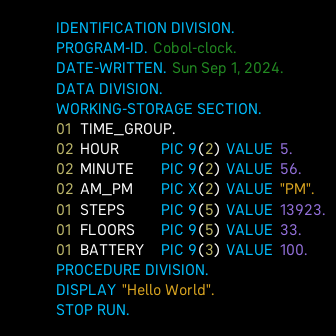
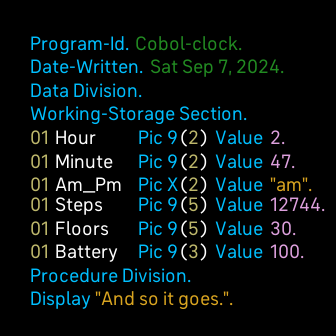
Refactoring to improve readability on physical device
Three lines of cobol code removed to increase font size. Cobol code will still compile according to GnuCobol.

Changed region(s): [[0.0893, 0.0595, 0.9524, 0.9524]]

diff --git a/cobol-clock/app/index.js b/cobol-clock/app/index.js
@@ -115,7 +115,7 @@ function updateTimeGroup(evt) {
   minuteLabel.text = `${displayMins}` + ".";
 
   // AM / PM indicator
-  amPmLabel.text = rawHours >= 12 ? '"PM".' : '"AM".';
+  amPmLabel.text = rawHours >= 12 ? '"pm".' : '"am".';
 }
 
 /**
@@ -148,14 +148,14 @@ function updateExerciseFields() {
  */
 function updateMessageField() {
   if (battery.charging) {
-    messageLabel.text = '"CHARGING".';
+    messageLabel.text = '"Charging".';
 
   } else if (
     appbit.permissions.granted("access_activity") &&
     activity.adjusted.steps > 10000 &&
     activity.adjusted.steps < 10100
   ) {
-    messageLabel.text = '"10,000 STEPS!".';
+    messageLabel.text = '"10,000 Steps!".';
     
   } else {
     messageLabel.text = '"' + generateRandomMessage() + '".';
@@ -168,7 +168,7 @@ function updateMessageField() {
  */
 function generateRandomMessage() {
   const messages = ["Hello World", "Hello there!", "Business Language!", "Yes, it comes in black.", "Dark mode!", "Yes, it has dark mode.", "Go take a walk."
-    , "Go for a run." , "Start Run" , "How about a run?" , "Code like it’s the 60s." , "How was the last walk?" , "This too shall pass." , "This code actually compiled." 
+    , "Go for a run." , "Start Run" , "How about a run?" , "Code like it’s the 60s." , "How was the last walk?" , "This too shall pass." , "This code compiled." 
     , "And so it goes." , "Better times are ahead." , "Take a few deep breaths." , "One day at a time." 
   ];
 

diff --git a/cobol-clock/resources/styles.css b/cobol-clock/resources/styles.css
@@ -23,7 +23,7 @@
  */
 
 .defaultText {
-  font-size: 16;
+  font-size: 20;
   font-family: System-Regular;
   font-weight: regular;
   text-length: 32;
@@ -39,7 +39,7 @@
 }
 
 .value {
-  fill: mediumpurple
+  fill: plum
 }
 
 .comment {
@@ -51,35 +51,35 @@
 }
 
 .area-A-col {
-  x: "56"
+  x: "30"
 }
 
 .variable-name-col {
-  x: "80"
+  x: "55"
 }
 
 .pic-col {
-  x: "161"
+  x: "138"
 }
 
 .open-paren-col {
-  x: "198"
+  x: "180"
 }
 
 .var-size-col {
-  x: "205"
+  x: "188"
 }
 
 .close-paren-col {
-  x: "214"
+  x: "200"
 }
 
 .val-keyword-col {
-  x: "226"
+  x: "215"
 }
 
 .value-col {
-  x: "280"
+  x: "270"
 }
 
 #background {
@@ -89,63 +89,53 @@
 }
 
 .row1 {
-  y:10%
+  y:15%
 }
 
 .row2 {
-  y:16%
-}
-
-.row3 {
   y:22%
 }
 
+.row3 {
+  y:29%
+}
+
 .row4 {
-  y:28%
+  y:36%
 }
 
 .row5 {
-  y:34%
+  y:43%
 }
 
 .row6 {
-  y:40%
+  y:50%
 }
 
 .row7 {
-  y:46%
+  y:57%
 }
 
 .row8 {
-  y:52%
+  y:63%
 }
 
 .row9 {
-  y:58%
-}
-
-.row10 {
-  y:64%
-}
-
-.row11 {
   y:70%
 }
 
+.row10 {
+  y:77%
+}
+
+.row11 {
+  y:84%
+}
+
 .row12 {
-  y:76%
+  y:91%
 }
 
-.row13 {
-  y:82%
-}
 
-.row14 {
-  y:88%
-}
-
-.row15 {
-  y:94%
-}
 
 
